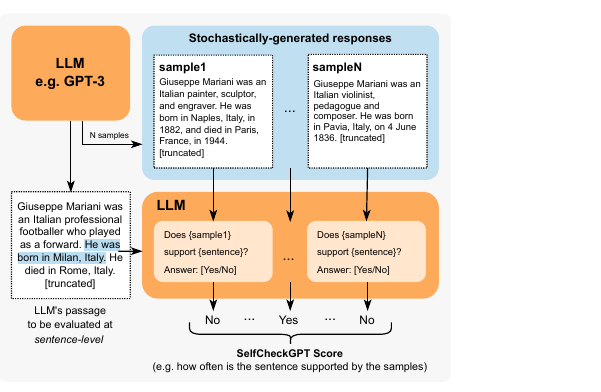
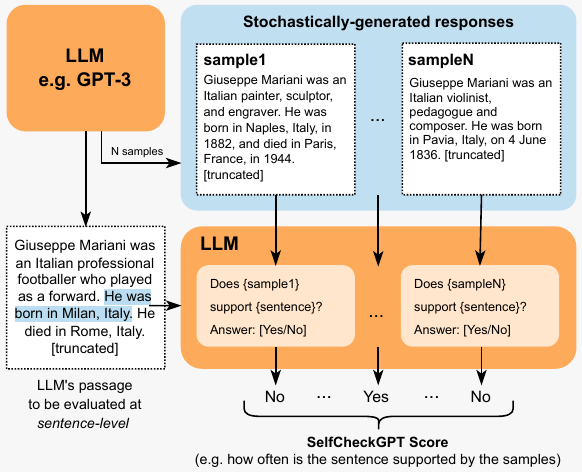
lec06 round 5: figure-first P30/P55/P72, ties line, calibration and V3/R1 caveats

diff --git a/courses/trustworthy-ai/lec06-hallucination-note.html b/courses/trustworthy-ai/lec06-hallucination-note.html
@@ -192,13 +192,13 @@ Informally (the paper's 99%-confidence version): <em>hallucination rate $\gtrsim
 
 <article>
 <h2>Counting With a Poor Model</h2>
-<p>Ask "How many Ds are in DEEPSEEK?" The answer is one. DeepSeek-V3, the chat model, answers directly and said two or three in ten independent trials. DeepSeek-R1, the reasoning model, spells the word out letter by letter and gets one. These two are siblings, not an old and a new version: V3 came out in December 2024, R1 in January 2025, and R1 was trained from V3's own base model. V3 was later refreshed in March 2025, so "V3" is not the older idea; it is the direct-answer line. Because they share a base, R1's success points to a modeling limitation in how V3 answers, not missing data. (The paper's words: "Assuming similar training data, this suggests that R1 is a better model for the task than the DeepSeek-V3 model.")</p>
+<p>Ask "How many Ds are in DEEPSEEK?" The answer is one. DeepSeek-V3, the chat model, answers directly and said two or three in ten independent trials. DeepSeek-R1, the reasoning model, spells the word out letter by letter and gets one. These two are siblings, not an old and a new version: V3 came out in December 2024, R1 in January 2025, and R1 was trained from V3's own base model. V3 was later refreshed in March 2025, so "V3" is not the older idea; it is the direct-answer line. Assuming similar training data, R1's success suggests a modeling or reasoning limitation in how V3 answers. A shared base alone does not establish identical training data, so this is a suggestion, not an isolated cause. (The paper's words: "Assuming similar training data, this suggests that R1 is a better model for the task than the DeepSeek-V3 model.")</p>
 <p><span class="kt">Key takeaway:</span> Some errors plausibly come from how the model represents the task, not from missing data.</p>
 <p><span class="kt">Slide figure:</span> the word seen two ways: as letters, where one D is visible, and as tokens D/EEP/SEE/K (the paper's example). Token boundaries differ from character boundaries; explicit spelling can help counting. Note the token view still contains a standalone D token; the point is the boundary mismatch, not that the D is invisible.</p>
 <div class="detail">
 <h3>Background &amp; further reading</h3>
 <p>Kalai, Nachum, Vempala &amp; Zhang (2025), §1 (the prompt and the V3 result, accessed 11 May 2025) and §3.3.2 (the R1 chain of thought and the token explanation). The paper's framing: a <em>poor model</em> is one whose family cannot separate valid from invalid responses, even with perfect data. <a href="https://arxiv.org/abs/2509.04664">arXiv 2509.04664</a>.</p>
-<p><strong>Chronology and roles (verified against primary sources).</strong> DeepSeek-V3: released 26 December 2024 (technical report <a href="https://arxiv.org/abs/2412.19437">arXiv 2412.19437</a>); an updated checkpoint, DeepSeek-V3-0324, followed on 25 March 2025. DeepSeek-R1: released 20 January 2025 (<a href="https://arxiv.org/abs/2501.12948">arXiv 2501.12948</a>); the report states R1 was trained with reinforcement learning starting from DeepSeek-V3-Base, and reuses parts of the V3 SFT data. So V3 is not a newer successor to R1, and R1 is not a replacement for V3: one is the direct-answer chat model, the other the reasoning model on the same base. Kalai et al. queried "DeepSeek-V3 (600 B parameters)" through the DeepSeek app on 11 May 2025, which suggests (but the paper does not state) the March 2025 update; the access date of the R1 example is not given. Release notes: <a href="https://api-docs.deepseek.com/news/news1226">V3 (26 Dec 2024)</a>, <a href="https://api-docs.deepseek.com/news/news250120">R1 (20 Jan 2025)</a>, <a href="https://api-docs.deepseek.com/news/news250325">V3-0324 (25 Mar 2025)</a>.</p>
+<p><strong>Chronology and roles (verified against primary sources).</strong> DeepSeek-V3: released 26 December 2024 (technical report <a href="https://arxiv.org/abs/2412.19437">arXiv 2412.19437</a>); an updated checkpoint, DeepSeek-V3-0324, followed on 25 March 2025. DeepSeek-R1: released 20 January 2025 (<a href="https://arxiv.org/abs/2501.12948">arXiv 2501.12948</a>); the report states R1 was trained with reinforcement learning starting from DeepSeek-V3-Base, and reuses parts of the V3 SFT data. So V3 is not a newer successor to R1, and R1 is not a replacement for V3: one is the direct-answer chat model, the other the reasoning model on the same base. Kalai et al. queried "DeepSeek-V3 (600 B parameters)" through the DeepSeek app on 11 May 2025; the paper does not name the checkpoint, and the access date of the R1 example is not given. Release notes: <a href="https://api-docs.deepseek.com/news/news1226">V3 (26 Dec 2024)</a>, <a href="https://api-docs.deepseek.com/news/news250120">R1 (20 Jan 2025)</a>, <a href="https://api-docs.deepseek.com/news/news250325">V3-0324 (25 Mar 2025)</a>.</p>
 </div>
 </article>
 
@@ -394,7 +394,7 @@ Two checks. The weights are bin shares $|B_m|/n$, which sum to 1, so ECE is a we
 <h2>Bigger Is Not Better</h2>
 <p>Guo and colleagues showed that as networks grew deeper and more accurate, their calibration got worse: more capacity brought more confident errors.</p>
 <p><span class="kt">Key takeaway:</span> Higher accuracy did not bring better calibration.</p>
-<p><span class="kt">Slide figure:</span> Guo et al. (2017), Fig. 1: confidence histograms and reliability diagrams for LeNet (1998, CIFAR-100, error 44.9) and ResNet (2016, error 30.6). ResNet is more accurate yet far more over-confident — the pink gap.</p>
+<p><span class="kt">Slide figure:</span> Guo et al. (2017), Fig. 1, column titles and bottom row: reliability diagrams for LeNet (1998, CIFAR-100, error 44.9) and ResNet (2016, error 30.6). ResNet is more accurate, yet its bars fall well below the diagonal: confidence overshoots accuracy (the pink gap). The confidence histograms in the figure's top row are omitted on the slide.</p>
 <div class="detail">
 <h3>Background &amp; further reading</h3>
 <p>Guo, Pleiss, Sun &amp; Weinberger (ICML 2017) evaluated state-of-the-art vision and NLP models and found that modern networks, "unlike those from a decade ago," are poorly calibrated, with depth, width, weight decay, and Batch Normalization as the influencing factors — accuracy improved while ECE worsened. The paper then benchmarks post-hoc fixes (histogram binning, isotonic regression, Platt variants) and finds the simplest — temperature scaling, next entry — is often the most effective. <a href="https://arxiv.org/abs/1706.04599">arXiv 1706.04599</a>.</p>
@@ -538,12 +538,12 @@ where the probability is over <em>both</em> the $n$ calibration points and the t
 
 <article>
 <h2>Two Kinds of Calibration</h2>
-<p>We have now seen "calibration" twice, so let us separate them. Temperature scaling and the conformal threshold share one idea: hold out labeled data the model never trained on, and use it to tune a single knob without touching the model. They differ in what the knob is aiming for. Temperature scaling makes the stated confidence match accuracy: answers labelled 80% are right about 80% of the time. The conformal threshold makes the prediction set contain the truth at least one minus alpha of the time. Coverage holds even if the probabilities themselves are miscalibrated; a badly calibrated model just gets bigger sets.</p>
+<p>We have now seen "calibration" twice, so let us separate them. Temperature scaling and the conformal threshold share one idea: hold out labeled data the model never trained on, and use it to tune a single knob without touching the model. They differ in what the knob is aiming for. Temperature scaling aims to improve probability calibration, so that answers labelled 80% are right closer to 80% of the time; exact calibration is not guaranteed. The conformal threshold makes the prediction set contain the truth at least one minus alpha of the time. Coverage holds even if the probabilities themselves are miscalibrated; a badly calibrated model just gets bigger sets.</p>
 <p><span class="kt">Key takeaway:</span> Same held-out-data idea, different target: confidence matching accuracy vs. set coverage.</p>
 <p><span class="kt">Slide figure:</span> held-out data feeding two branches: fit a temperature (probability calibration, target: confidence matches accuracy) and pick a threshold (conformal calibration, target: truth in the set at least 1 − α of the time).</p>
 <div class="detail">
 <h3>Background &amp; further reading</h3>
-<p>Temperature scaling (Guo et al., ICML 2017, §4.2) fits one scalar $T$ by minimizing negative log-likelihood on a validation set; it leaves the argmax, and so accuracy, unchanged, and is judged by ECE. Split conformal (Angelopoulos &amp; Bates 2021, §1, Theorem 1) picks one quantile $\hat q$ of calibration scores; it is judged by marginal coverage and set size. The two compose: calibrating probabilities first usually gives smaller conformal sets, but the coverage guarantee does not depend on it.</p>
+<p>Temperature scaling (Guo et al., ICML 2017, §4.2) fits one scalar $T$ by minimizing negative log-likelihood on a validation set; it leaves the argmax, and so accuracy, unchanged, and is judged by ECE. Split conformal (Angelopoulos &amp; Bates 2021, §1, Theorem 1) picks one quantile $\hat q$ of calibration scores; it is judged by marginal coverage and set size. The two can be combined if the data are kept separate: tune the temperature on one held-out split, then, with the score now fixed, run conformal calibration on a different split. The coverage guarantee does not depend on how well the probabilities are calibrated.</p>
 </div>
 </article>
 
@@ -570,7 +570,7 @@ $$\Pr[\,Y_{n+1} \in C(X_{n+1})\,] = \frac{k}{n+1} \;\ge\; \frac{(n+1)(1-\alpha)}
 
 <article>
 <h2>Why It Works: A Fair Rank</h2>
-<p>The intuition behind the guarantee. Take nine calibration scores and add the test score as a tenth. If the data are exchangeable, meaning the order of the examples carries no information, and the score function was fixed before seeing the calibration data, the test score is just one more draw from the same pile. So its rank among all ten is equally likely to be anything from 1 to 10. With alpha 0.2 the threshold is the eighth smallest calibration score, so the test point is covered whenever it ranks 1 through 8: eight chances in ten. This holds on average over all the ways the data could have come out; it is marginal, not a promise for each individual input.</p>
+<p>The intuition behind the guarantee. Take nine calibration scores and add the test score as a tenth. If the data are exchangeable, meaning the order of the examples carries no information, and the score function was fixed before seeing the calibration data, the test score is just one more draw from the same pile. So its rank among all ten is equally likely to be anything from 1 to 10. With alpha 0.2 the threshold is the eighth smallest calibration score, so the test point is covered whenever it ranks 1 through 8: eight chances in ten. This holds on average over all the ways the data could have come out; it is marginal, not a promise for each individual input. The picture assumes the ten scores are distinct; with ties, coverage is still at least the target 1 − alpha.</p>
 <p><span class="kt">Key takeaway:</span> Exchangeability makes the test rank uniform; coverage follows.</p>
 <p><span class="kt">Slide figure:</span> ten equally likely rank slots (1/10 each); slots 1–8 covered, 9–10 missed, with the threshold after slot 8 ($n = 9$, $\alpha = 0.2$, $k = 8$, matching the worked example).</p>
 <div class="detail">
@@ -862,7 +862,7 @@ Choosing the penalty $\lambda$ therefore <em>implements a confidence threshold $
 <h2>Factuality Evaluations</h2>
 <p>Fine-grained evaluations break a long answer into atomic claims, verify each against evidence, and report the fraction supported, instead of one pass/fail verdict.</p>
 <p><span class="kt">Key takeaway:</span> Claim-level scoring gives a finer view of factuality.</p>
-<p><span class="kt">Slide figure:</span> Min et al. (2023), FActScore Fig. 1: a ChatGPT and a StableLM biography split into atomic facts checked against Wikipedia, giving factual-precision scores of 66.7% and 10.0%.</p>
+<p><span class="kt">Slide figure:</span> Min et al. (2023), FActScore Fig. 1, top example: a ChatGPT biography of Bridget Moynahan split into nine atomic facts checked against Wikipedia; six are supported, a FActScore of 66.7%. The figure's second example (StableLM, 10.0%) is omitted on the slide.</p>
 <div class="detail">
 <h3>Definitions</h3>
 <p><strong>Atomic-claim factual precision</strong> (FActScore; Min et al. 2023). Decompose a generation $y$ into atomic facts $a_1,\dots,a_k$ — short claims each conveying one piece of information — and score

diff --git a/courses/trustworthy-ai/lec06-hallucination.html b/courses/trustworthy-ai/lec06-hallucination.html
@@ -234,7 +234,7 @@
     <li><strong>R1</strong>, reasoning model trained from V3's base: spells it out, answers 1</li>
     <li>Siblings, not successor: V3 Dec 2024 (updated Mar 2025), R1 Jan 2025</li>
   </ul>
-  <p class="muted">Shared base ⇒ the gap points to <strong>modeling</strong>, not missing data.</p>
+  <p class="muted">Assuming similar training data, R1's success suggests a <strong>modeling / reasoning</strong> limitation.</p>
   <div class="cite cite-left">Kalai, Nachum, Vempala, and Zhang, "Why Language Models Hallucinate", 2025 — §1 and §3.3.2; DeepSeek-AI, DeepSeek-V3 report (arXiv 2412.19437) and DeepSeek-R1 report (arXiv 2501.12948).</div>
 </div>
 
@@ -477,17 +477,9 @@
 <div class="slide">
   <h2>Bigger Is Not Better</h2>
   <div class="divider"></div>
-  <p>Accuracy rose, but <strong>calibration got worse</strong>.</p>
-  <div class="grid-2" style="grid-template-columns:1fr auto;gap:28px;align-items:center;">
-    <div><ul class="arrow">
-    <li>Old shallow nets: fairly calibrated</li>
-    <li>Modern deep nets: very overconfident</li>
-    <li>More capacity, more confident errors</li>
-  </ul>
-  <p class="muted">LeNet (1998): error 44.9, bars on the line. ResNet (2016): error 30.6, a wide pink gap.</p></div>
-    <div style="display:flex;justify-content:center;"><img src="figs/guo-lenet-resnet.png" alt="Confidence histograms and reliability diagrams for LeNet 1998 and ResNet 2016 on CIFAR-100; ResNet is more accurate but far more overconfident" style="max-height:450px;width:auto;max-width:100%;display:block;"></div>
-  </div>
-  <div class="cite cite-left">Guo, Pleiss, Sun, and Weinberger, "On Calibration of Modern Neural Networks", ICML 2017 — Fig. 1.</div>
+  <div style="width:700px;margin:0 auto;"><img src="figs/guo-reliability-titles.png" alt="Column titles: LeNet (1998), CIFAR-100 and ResNet (2016), CIFAR-100" style="width:100%;display:block;"><img src="figs/guo-reliability.png" alt="Reliability diagrams: LeNet bars sit on the diagonal with error 44.9; ResNet bars fall well below the diagonal, a wide pink gap, with error 30.6" style="width:100%;display:block;"></div>
+  <p style="text-align:center;margin-top:12px;">ResNet: <strong>fewer errors</strong>, but confidence <strong>overshoots</strong> accuracy.</p>
+  <div class="cite cite-left">Guo, Pleiss, Sun, and Weinberger, "On Calibration of Modern Neural Networks", ICML 2017 — Fig. 1, column titles and bottom row (reliability diagrams); histograms omitted.</div>
 </div>
 
 <!-- 31. A Cheap Fix: Temperature -->
@@ -704,6 +696,7 @@
     <li>⇒ every rank equally likely: covered $\ge 1-\alpha$ ($n = 9$, $\alpha = 0.2$)</li>
     <li>Averaged over all data draws: <strong>marginal</strong>, not for each $x$</li>
   </ul>
+  <p class="muted">Illustration assumes distinct scores; ties preserve at least the target coverage.</p>
   <div class="cite cite-left">Angelopoulos and Bates, "A Gentle Introduction to Conformal Prediction and Distribution-Free Uncertainty Quantification", 2021 — Theorem 1 and Appendix D.</div>
 </div>
 
@@ -819,16 +812,8 @@
 <div class="slide">
   <h2>Self-Consistency</h2>
   <div class="divider"></div>
-  <p>Ask the <strong>same question several times</strong>.</p>
-  <div class="grid-2" style="grid-template-columns:1fr auto;gap:28px;align-items:center;">
-    <div><ul class="arrow">
-    <li>Sample multiple independent answers</li>
-    <li>Agreement ⇒ likely solid</li>
-    <li>Wild disagreement ⇒ likely invented</li>
-  </ul>
-  <p class="muted">Consistency is a cheap confidence proxy.</p></div>
-    <div style="display:flex;justify-content:center;"><img src="figs/selfcheckgpt.png" alt="SelfCheckGPT: an LLM passage is checked sentence by sentence against N stochastically sampled responses; the score is how often the samples support the sentence" style="max-height:410px;width:auto;max-width:100%;display:block;"></div>
-  </div>
+  <div style="display:flex;justify-content:center;margin-top:4px;"><img src="figs/selfcheckgpt.png" alt="SelfCheckGPT: an LLM passage is checked sentence by sentence against N stochastically sampled responses; the score is how often the samples support the sentence" style="height:405px;width:auto;display:block;"></div>
+  <p style="text-align:center;margin-top:12px;">Samples <strong>agree</strong> ⇒ likely solid; samples <strong>conflict</strong> ⇒ likely invented.</p>
   <div class="cite cite-left">Manakul, Liusie, and Gales, "SelfCheckGPT: Zero-Resource Black-Box Hallucination Detection for Generative Large Language Models", EMNLP 2023 — Fig. 1.</div>
 </div>
 
@@ -1097,17 +1082,9 @@
 <div class="slide">
   <h2>Factuality Evaluations</h2>
   <div class="divider"></div>
-  <p>Score long answers <strong>claim by claim</strong>.</p>
-  <div class="grid-2" style="grid-template-columns:1fr auto;gap:28px;align-items:center;">
-    <div><ul class="arrow">
-    <li>Break a paragraph into atomic facts</li>
-    <li>Verify each against evidence</li>
-    <li>Report the fraction supported</li>
-  </ul>
-  <p class="muted">A fine-grained alternative to one pass/fail.</p></div>
-    <div style="display:flex;justify-content:center;"><img src="figs/factscore-overview.png" alt="FActScore overview: two generated biographies of Bridget Moynahan split into atomic facts, each checked against Wikipedia; ChatGPT scores 66.7 percent, a smaller model 10 percent" style="max-height:410px;width:auto;max-width:100%;display:block;"></div>
-  </div>
-  <div class="cite cite-left">Min et al., "FActScore: Fine-grained Atomic Evaluation of Factual Precision in Long Form Text Generation", EMNLP 2023 — Fig. 1.</div>
+  <div style="display:flex;justify-content:center;margin-top:4px;"><img src="figs/factscore-chatgpt.png" alt="FActScore worked example: a ChatGPT biography of Bridget Moynahan split into nine atomic facts, each checked against Wikipedia; six are supported, score 66.7 percent" style="width:990px;height:auto;display:block;"></div>
+  <p style="text-align:center;margin-top:12px;">Score = fraction of <strong>atomic facts</strong> supported: 6 of 9 = 66.7%.</p>
+  <div class="cite cite-left">Min et al., "FActScore: Fine-grained Atomic Evaluation of Factual Precision in Long Form Text Generation", EMNLP 2023 — Fig. 1, top example (ChatGPT); StableLM example omitted.</div>
 </div>
 
 <!-- 74. Open Problems -->

diff --git a/courses/trustworthy-ai/OUTLINE.md b/courses/trustworthy-ai/OUTLINE.md
@@ -891,11 +891,11 @@ reasoning-model hallucination; sycophancy one-slide touchpoint (full treatment i
 | Title / Contents | 1–2 | `:26`, `:38` | |
 | **01 — What Hallucination Is** | 3–11 | `:71` | definition (Ji survey) `:79` · **fluency fools us (real vs invented citation test; 2026-10)** `:94` · **Context: Mata v. Avianca (2023) (comparison with Lacey; round 4)** `:103` · Fake Citations, Again (Lacey v. State Farm) `:114` · **Invented Medical Facts (infarct defined; 2026-10)** `:132` · two flavors of wrong `:150` · not the same as a bug `:164` · why this matters `:179` |
 | **02 — Why Models Hallucinate** | 12–22 | `:192` | training objective `:200` · no truth grounding (Kalai Fig 1) `:212` · **Counting With a Poor Model (V3 chat vs R1 reasoning, siblings on one base; round 4)** `:225` · **Weak Model Family ⇒ Forced Errors (trigram picture, plain-language Cor 2; formal bound in lec06tech; round 4)** `:241` · plausible beats true `:254` · pressure to always answer `:276` · exam-taking analogy `:293` · Guessing, Measured `:310` · where errors concentrate (FActScore Fig 2 + plot description) `:338` · knowledge cutoff `:355` |
-| **03 — Calibration** | 23–36 | `:371` | confidence as a number `:379` · calibration promise (100-dot grid) `:391` · reliability diagram `:406` · over- vs under-confident `:428` · **measuring the gap (gap = \|conf − acc\|; 2026-10)** `:442` · **reading ECE (area picture, 0.1705; 2026-10)** `:459` · bigger is not better `:476` · temperature `:493` · **What P(True) Measures (3-step prompt; round 4)** `:507` · **Kadavath P(True) histogram (overlap = imperfect discrimination; round 4)** `:520` · **Filtering by P(True) Mostly Raises Accuracy (unmodified plot + enlarged key)** `:536` · **verbalized confidence GPT-3/3.5** `:550` · **GPT-4/Vicuna** `:565` |
-| **04 — Conformal Prediction** | 37–52 | `:582` | one answer to a set (three photos, typeset sets) `:590` · **Candidates, Native Output, Conformal Set** `:602` · coverage guarantee `:616` · **Two Assumptions (A1 exchangeable, A2 fixed score)** `:632` · how it works (k, q̂ = ∞) `:645` · recipe figure `:659` · **Two Kinds of Calibration (temperature vs threshold; round 4)** `:667` · **Coverage Theorem (upper bound only without ties)** `:679` · **Why It Works: A Fair Rank (n = 9, α = 0.2 rank picture; replaces 3 proof slides; round 4)** `:696` · prediction-set picture `:711` · **What the Guarantee Covers** `:719` · **Marginal ≠ Conditional** `:739` · abstention (singleton ≠ certified) `:754` · medical triage (clinician review) `:770` · trade-off `:786` |
-| **05 — Detection & Grounding** | 53–62 | `:796` | two strategies (Ground first, then Detect; round 4) `:804` · self-consistency `:818` · semantic entropy `:835` · entropy picture `:849` · RAG `:874` · why RAG helps `:888` · RAG is not a cure `:904` · teaching "I don't know" `:920` · scoring rule `:936` |
-| **06 — Frontier 2025–26** | 63–73 | `:949` | **Misconceptions (TruthfulQA examples; 2026-10)** `:956` · **In the Wild: Search Answers, 2024 (rocks / glue)** `:970` · **Should a Truthful Model Share Our Errors?** `:982` · TruthfulQA `:999` · **Benchmarks table (4 benchmarks)** `:1014` · **Measuring Faithfulness: Vectara HHEM (Sep 22, 2026 data)** `:1029` · reasoning models `:1067` · sycophancy `:1084` · factuality evaluations `:1096` · open problems `:1113` |
-| Takeaways / Closer | 74–75 | — | `:1128`, `:1142` |
+| **03 — Calibration** | 23–36 | `:371` | confidence as a number `:379` · calibration promise (100-dot grid) `:391` · reliability diagram `:406` · over- vs under-confident `:428` · **measuring the gap (gap = \|conf − acc\|; 2026-10)** `:442` · **reading ECE (area picture, 0.1705; 2026-10)** `:459` · bigger is not better `:476` · temperature `:485` · **What P(True) Measures (3-step prompt; round 4)** `:499` · **Kadavath P(True) histogram (overlap = imperfect discrimination; round 4)** `:512` · **Filtering by P(True) Mostly Raises Accuracy (unmodified plot + enlarged key)** `:528` · **verbalized confidence GPT-3/3.5** `:542` · **GPT-4/Vicuna** `:557` |
+| **04 — Conformal Prediction** | 37–52 | `:574` | one answer to a set (three photos, typeset sets) `:582` · **Candidates, Native Output, Conformal Set** `:594` · coverage guarantee `:608` · **Two Assumptions (A1 exchangeable, A2 fixed score)** `:624` · how it works (k, q̂ = ∞) `:637` · recipe figure `:651` · **Two Kinds of Calibration (temperature vs threshold; round 4)** `:659` · **Coverage Theorem (upper bound only without ties)** `:671` · **Why It Works: A Fair Rank (n = 9, α = 0.2 rank picture; replaces 3 proof slides; round 4)** `:688` · prediction-set picture `:704` · **What the Guarantee Covers** `:712` · **Marginal ≠ Conditional** `:732` · abstention (singleton ≠ certified) `:747` · medical triage (clinician review) `:763` · trade-off `:779` |
+| **05 — Detection & Grounding** | 53–62 | `:789` | two strategies (Ground first, then Detect; round 4) `:797` · self-consistency `:811` · semantic entropy `:820` · entropy picture `:834` · RAG `:859` · why RAG helps `:873` · RAG is not a cure `:889` · teaching "I don't know" `:905` · scoring rule `:921` |
+| **06 — Frontier 2025–26** | 63–73 | `:934` | **Misconceptions (TruthfulQA examples; 2026-10)** `:941` · **In the Wild: Search Answers, 2024 (rocks / glue)** `:955` · **Should a Truthful Model Share Our Errors?** `:967` · TruthfulQA `:984` · **Benchmarks table (4 benchmarks)** `:999` · **Measuring Faithfulness: Vectara HHEM (Sep 22, 2026 data)** `:1014` · reasoning models `:1052` · sycophancy `:1069` · factuality evaluations `:1081` · open problems `:1090` |
+| Takeaways / Closer | 74–75 | — | `:1105`, `:1119` |
 
 **Key definitions / citations (source-verified; 2026-10 additions checked against the saved PDFs):**
 - Hallucination survey — `:79` — Ji et al., ACM Computing Surveys 2023.
@@ -904,30 +904,30 @@ reasoning-model hallucination; sycophancy one-slide touchpoint (full treatment i
 - Kalai, Nachum, Vempala, and Zhang, 2025 (arXiv 2509.04664) — IIV reduction Fig 1 `:212`;
   DEEPSEEK letter count (§1: V3 "2" or "3" in ten trials, app, 11 May 2025; §3.3.2: R1 spells it out, tokens D/EEP/SEE/K) `:225`;
   trigram limitation in plain language (Theorem 3, Corollary 2) `:241`; the formal bound
-  err ≥ 2·opt(G) − max|V_c|/min|E_c| − δ now only in the note and `lec06tech.html`; binary grading `:276`, `:293`, `:936`.
+  err ≥ 2·opt(G) − max|V_c|/min|E_c| − δ now only in the note and `lec06tech.html`; binary grading `:276`, `:293`, `:921`.
 - DeepSeek chronology — `:225` — V3 released 26 Dec 2024 (arXiv 2412.19437), V3-0324 25 Mar 2025, R1 20 Jan 2025
   (arXiv 2501.12948; RL from DeepSeek-V3-Base); api-docs.deepseek.com/news. Siblings, not successor.
-- FActScore — `:338`, `:1014`, `:1096` — Min et al., EMNLP 2023.
-- Calibration / ECE / temperature — `:391`–`:493`, `:667` — Guo, Pleiss, Sun, and Weinberger, ICML 2017 (ECE Eq. 3).
+- FActScore — `:338`, `:999`, `:1081` — Min et al., EMNLP 2023.
+- Calibration / ECE / temperature — `:391`–`:485`, `:659` — Guo, Pleiss, Sun, and Weinberger, ICML 2017 (ECE Eq. 3).
   ECE example (shares .10/.10/.15/.25/.40, gaps .03/.07/.15/.20/.22 → 0.1705) is a course illustration.
-- Self-knowledge P(True) — `:507`, `:520`, `:536` — Kadavath et al., 2022, §3.2 / §4.1–4.2 (prompt format, P of "(A)"), Fig 1 (left / right; right panel unmodified, enlarged key beside it).
-- Verbalized confidence — `:550`, `:565` — Xiong et al., ICLR 2024, Fig 2 (GSM8K).
-- Conformal — `:590`–`:739` — Angelopoulos and Bates, 2021 (Theorem 1, Appendix D, Theorem D.2);
+- Self-knowledge P(True) — `:499`, `:512`, `:528` — Kadavath et al., 2022, §3.2 / §4.1–4.2 (prompt format, P of "(A)"), Fig 1 (left / right; right panel unmodified, enlarged key beside it).
+- Verbalized confidence — `:542`, `:557` — Xiong et al., ICLR 2024, Fig 2 (GSM8K).
+- Conformal — `:582`–`:732` — Angelopoulos and Bates, 2021 (Theorem 1, Appendix D, Theorem D.2);
   Vovk, Gammerman, and Saunders, ICML 1999. k = ⌈(n+1)(1−α)⌉, q̂ = ∞ when k = n+1; ties keep the lower bound.
-- Conditional coverage limits — `:739` — Vovk, ACML 2012; Lei and Wasserman, JRSS-B 2014 (Lemma 1);
+- Conditional coverage limits — `:732` — Vovk, ACML 2012; Lei and Wasserman, JRSS-B 2014 (Lemma 1);
   Foygel Barber, Candès, Ramdas, and Tibshirani, Information and Inference 2021.
-- TruthfulQA — `:956`, `:982`, `:999`, `:1014` — Lin, Hilton, and Evans, ACL 2022 (Fig 1, Fig 2, Table 6, §2.1).
-- AI Overviews rocks / glue — `:970` — Reid (Google), "AI Overviews: About last week", Google blog, May 30, 2024.
-- SimpleQA — `:310`, `:1014` — Wei et al., 2024 (grades: correct / incorrect / not attempted).
-- Vectara HHEM-2.3 — `:1029` — leaderboard README, updated Sep. 22, 2026 (top six rows; 7,700+ articles; temperature 0).
-- Self-consistency `:818` — Manakul et al., EMNLP 2023. Semantic entropy `:835` — Farquhar et al., Nature 2024.
-  RAG `:874` — Lewis et al., NeurIPS 2020. Sycophancy `:1084` — Sharma et al., ICLR 2024.
+- TruthfulQA — `:941`, `:967`, `:984`, `:999` — Lin, Hilton, and Evans, ACL 2022 (Fig 1, Fig 2, Table 6, §2.1).
+- AI Overviews rocks / glue — `:955` — Reid (Google), "AI Overviews: About last week", Google blog, May 30, 2024.
+- SimpleQA — `:310`, `:999` — Wei et al., 2024 (grades: correct / incorrect / not attempted).
+- Vectara HHEM-2.3 — `:1014` — leaderboard README, updated Sep. 22, 2026 (top six rows; 7,700+ articles; temperature 0).
+- Self-consistency `:811` — Manakul et al., EMNLP 2023. Semantic entropy `:820` — Farquhar et al., Nature 2024.
+  RAG `:859` — Lewis et al., NeurIPS 2020. Sycophancy `:1069` — Sharma et al., ICLR 2024.
 
-**Real images** (`figs/`, cited; 20 files on 17 slides): kalai-iiv `:212` · kalai-gpt4-calibration `:276` ·
-factscore-frequency `:338` · guo-lenet-resnet `:476` · guo-temp-scaling `:493` · kadavath-ptrue-hist `:520` ·
-kadavath-ptrue-scaling `:536` · xiong-verbalized-a `:550` · xiong-verbalized-b `:565` · conformal-squirrel-1/2/3
-`:590` · conformal-recipe `:659` · selfcheckgpt `:818` · semantic-entropy-table `:835` · rag-overview `:874` ·
-truthfulqa-size `:999` · sharma-sycophancy `:1084` · factscore-overview `:1096`. Crops re-captured at higher
+**Real images** (`figs/`, cited; 21 files on 17 slides): kalai-iiv `:212` · kalai-gpt4-calibration `:276` ·
+factscore-frequency `:338` · guo-reliability-titles + guo-reliability `:476` · guo-temp-scaling `:485` · kadavath-ptrue-hist `:512` ·
+kadavath-ptrue-scaling `:528` · xiong-verbalized-a `:542` · xiong-verbalized-b `:557` · conformal-squirrel-1/2/3
+`:582` · conformal-recipe `:651` · selfcheckgpt `:811` · semantic-entropy-table `:820` · rag-overview `:859` ·
+truthfulqa-size `:984` · sharma-sycophancy `:1069` · factscore-chatgpt `:1081`. Crops re-captured at higher
 resolution in 2026-10; kadavath-ptrue-scaling is an unmodified crop (embedded legend
 kept) with an enlarged SVG key beside it. Citations use `.cite-left`.
 
@@ -966,6 +966,14 @@ marginal; proof moved to `lec06tech.html`); Two Strategies reordered Ground → 
 diagram; figures enlarged on old P30, 32, 56, 59, 73. Note synced (75 articles; proof kept in the
 Coverage Theorem entry). Round-3→round-4 map: 1–5 same · 6 new · 6–14→7–15 · 15+16→16 · 17–31 same ·
 32 new · 32–35→33–36 · 36 removed · 37–43 same · 44 new · 44→45 · 45–47→46 · 48–76→47–75.
+
+**Round 5 (slides-review, 2026-10-07; 75 unchanged):** P30, P55, P72 rebuilt figure-first at full
+available width with one takeaway line (side bullets dropped; their content is in the note). Guo crop is
+now the column titles + reliability-diagram row (histograms omitted); SelfCheckGPT re-cropped at native
+resolution (the old crop was vertically squashed); FActScore cropped to the ChatGPT worked example only.
+P15 caption restored to "Assuming similar training data …"; P46 adds the distinct-scores / ties line.
+Note: P44 temperature scaling "aims to improve" calibration (no exactness, no set-size claim; separate
+tuning and conformal splits); n14 drops the checkpoint inference.
 
 **2026-09 figure pass (61 slides, unchanged count; PR #24):** every bullet-only content slide now carries
 a cited real figure crop or an inline SVG (14 new crops, 26 new SVGs). Real figures sit beside the bullets

diff --git a/log/2026-10-07-trustworthy-ai-lec06-round4.md b/log/2026-10-07-trustworthy-ai-lec06-round4.md
@@ -46,3 +46,21 @@ Map: 1–5 same · 6 new (Avianca context) · 6–14→7–15 · 15+16→16 · 1
 • Two Strategies: Ground (left) → Detect (right), larger diagram. Figures are enlarged on old P30, 56, 59, 73. "red = wrong" stays on one line.
 
 Lint and outline-lint pass, apart from the existing false positive in the note. Note and deck match 1:1 (75). Waiting for your confirmation before opening a PR.
+
+### 6 — slides-review → slides, 2026-10-07 07:25
+
+Reviewed round 4, including the requested rendered pages. The Avianca context, P(True) explanation, Ground→Detect order, and lighter treatment of the mathematics work well. *Not signed off yet; four targeted fixes remain.* • *New P30, P55, P72 (old 30, 56, 73):* the imported figures still occupy a narrow right column; their labels/example text remain too small. Increasing max-height alone hasn't solved readability. Use figure-first, full-width layouts with one short takeaway. For FActScore, enlarge one complete worked example rather than squeezing both into the column. Preserve source content; crop rather than reconstruct. • *P46—rank intuition:* add "Illustration assumes distinct scores; ties preserve at least the target coverage." Otherwise "every rank equally likely" silently drops an assumption. This needs one sentence, not another proof. • *P44 notes—calibration:* change "temperature scaling makes confidence match accuracy" to "aims to improve probability calibration; exact calibration is not guaranteed." Remove the unsupported claim that it "usually gives smaller conformal sets." If explaining composition, specify separate temperature-tuning and conformal-calibration data so the score is fixed before conformal calibration. • *P15—comparison caveat:* restore "Assuming similar training data, R1's success suggests a modeling/reasoning limitation." Shared base alone does not establish identical training data or isolate the cause. Keep the useful release chronology; leave the tested V3 checkpoint unspecified. Please send the corrected pages and synchronized sources. No further expansion of the main deck is needed; keep the PR unopened pending confirmation.
+
+### 7 — slides → slides-review, 2026-10-07 07:33 (with attachment lec06-round5-package.zip)
+
+Round-5 package attached (lec06-round5-package.zip): deck PDF (75 pp, count unchanged), deck/note HTML, the four new or re-cropped figures, and pagemap-and-sources.md. Tech is unchanged.
+
+• P30, P55, P72: each is now figure-first with one takeaway line and no side bullets; the bullet content is already in the notes. All crops are fresh from the arXiv PDFs at native resolution, with no reconstruction.
+  – P30 (Guo Fig. 1): the column titles plus the reliability-diagram row, 700 px wide; the histograms are omitted and the cite says so. Takeaway: "ResNet: fewer errors, but confidence overshoots accuracy."
+  – P72 (FActScore Fig. 1): the complete ChatGPT example at 990 px (9 atomic facts, 66.7%); the StableLM example is omitted and the cite says so. Takeaway: "Score = fraction of atomic facts supported: 6 of 9 = 66.7%."
+  – P55 (SelfCheckGPT Fig. 1): this one cannot go full-width. The figure is about 1.24:1, so the 720-px slide height caps it at about 500 px wide. It now uses the full available height. I also found that the old crop was squashed about 20% vertically; the new crop has the true proportions and is sharp. Cropping it further would drop part of the sample → check → score flow. Tell me if you'd prefer a split.
+• P46: added "Illustration assumes distinct scores; ties preserve at least the target coverage." The note says the same.
+• P44 note: temperature scaling now "aims to improve probability calibration … exact calibration is not guaranteed." I removed the smaller-sets claim. The note on combining the two now says to tune the temperature on one split, fix the score, and then run conformal calibration on a separate split.
+• P15: the slide now reads "Assuming similar training data, R1's success suggests a modeling / reasoning limitation." The note n14 matches and adds that a shared base does not establish identical training data. The chronology stays. The V3 checkpoint is left unspecified; the inference I had drawn about it is removed.
+
+Lint, outline-lint, the div-depth check and note↔deck sync all pass. The only flags are the ones already there: the false positive in the note, and the 42/Closer title variants. I committed and pushed to `trustworthy-ai-lec06-albert-2026-10-07`; no PR is open, and I'm waiting for your confirmation.
